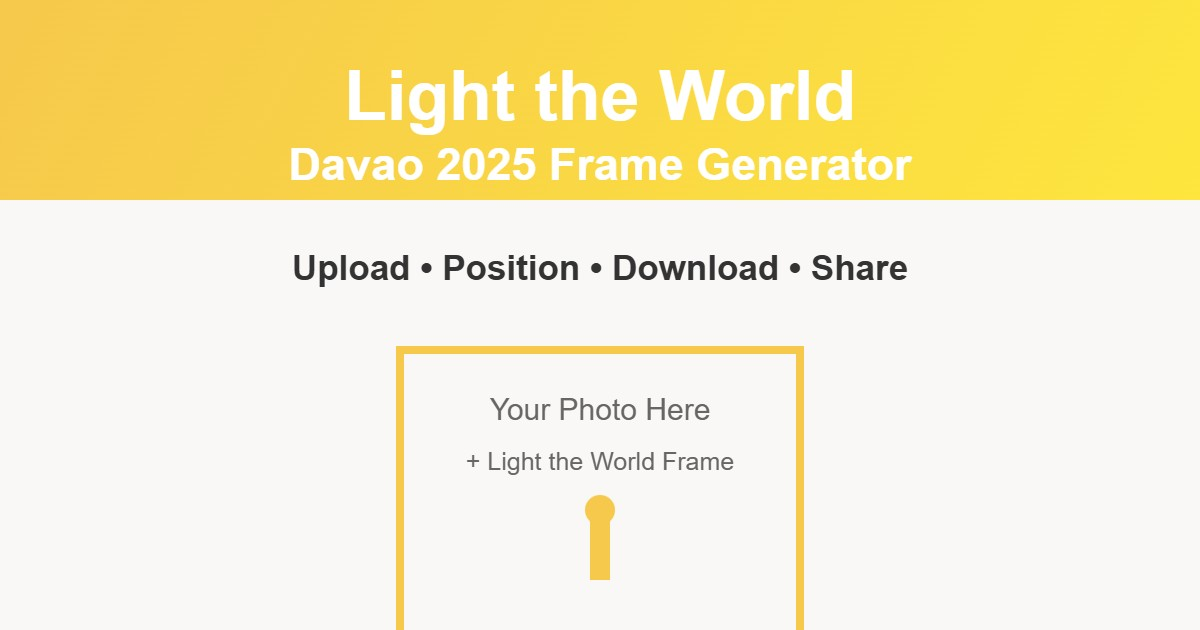
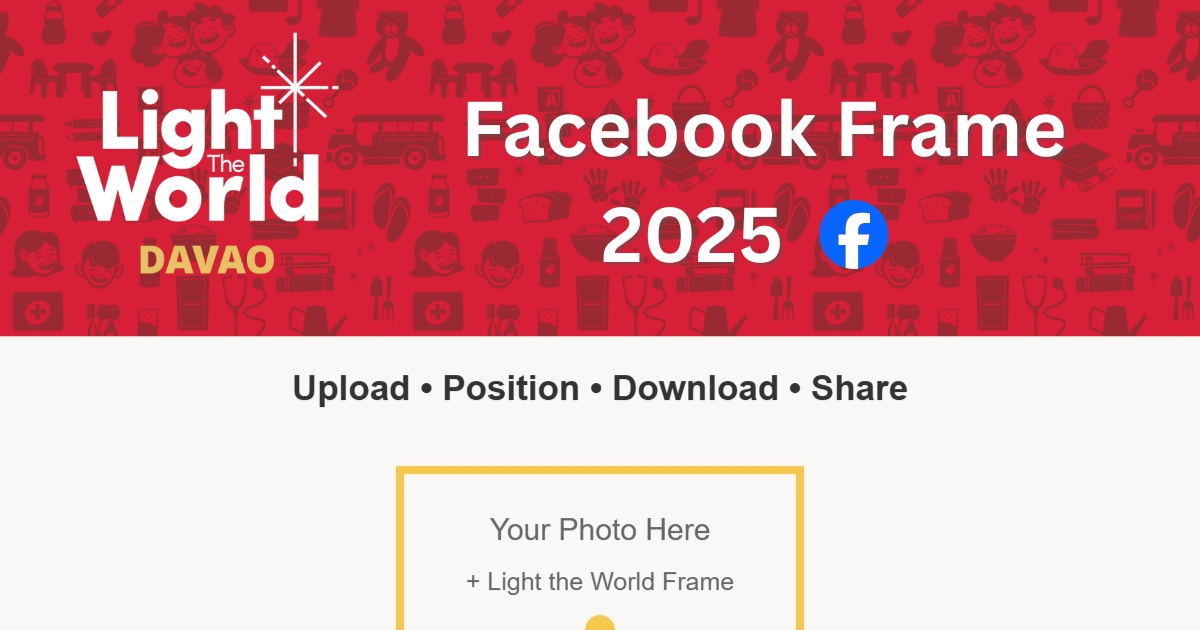
updates to preview image and landing page theme

diff --git a/index.html b/index.html
@@ -23,8 +23,8 @@
         }
         
         body {
-            font-family: system-ui, -apple-system, sans-serif;
-            background: linear-gradient(135deg, #1a237e 0%, #311b92 100%);
+            font-family: -apple-system, BlinkMacSystemFont, 'Segoe UI', Roboto, Oxygen, sans-serif;
+            background: linear-gradient(135deg, #8B0000 0%, #B22222 100%);
             color: white;
             min-height: 100vh;
             overflow: hidden;
@@ -39,7 +39,7 @@
             left: 0;
             right: 0;
             bottom: 0;
-            background: rgba(0, 0, 0, 0.95);
+            background: rgba(0, 0, 0, 0.85);
             z-index: 99999;
             display: flex;
             justify-content: center;
@@ -54,125 +54,244 @@
             max-width: 450px;
             width: 100%;
             color: #333;
-            box-shadow: 0 20px 60px rgba(0, 0, 0, 0.4);
+            box-shadow: 0 25px 70px rgba(139, 0, 0, 0.3);
             position: relative;
             text-align: center;
+            border: 3px solid #FFD700;
+            overflow: hidden;
+        }
+        
+        /* Decorative elements */
+        .modal-content::before {
+            content: "";
+            position: absolute;
+            top: 0;
+            left: 0;
+            right: 0;
+            height: 4px;
+            background: linear-gradient(90deg, #FFD700, #FF6347, #FFD700);
+        }
+        
+        .modal-content::after {
+            content: "🎄";
+            position: absolute;
+            top: -15px;
+            left: 50%;
+            transform: translateX(-50%);
+            background: white;
+            width: 40px;
+            height: 40px;
+            border-radius: 50%;
+            display: flex;
+            align-items: center;
+            justify-content: center;
+            font-size: 1.5rem;
+            border: 3px solid #FFD700;
+            box-shadow: 0 4px 12px rgba(0, 0, 0, 0.15);
         }
         
         h1 {
-            color: #f6c84c;
-            font-size: 1.6rem;
+            color: #8B0000;
+            font-size: 1.7rem;
             text-align: center;
-            margin-bottom: 15px;
+            margin-bottom: 12px;
+            font-weight: 700;
+            text-shadow: 1px 1px 2px rgba(0, 0, 0, 0.1);
         }
         
         .subtitle {
             text-align: center;
             color: #666;
-            margin-bottom: 25px;
+            margin-bottom: 28px;
             font-size: 1rem;
-            line-height: 1.4;
+            line-height: 1.5;
+            padding: 0 10px;
         }
         
         .step {
             text-align: left;
-            margin-bottom: 20px;
+            margin-bottom: 22px;
+            position: relative;
+            padding-left: 5px;
         }
         
         .step-number {
             display: inline-block;
-            background: #f6c84c;
-            color: #1a237e;
-            width: 28px;
-            height: 28px;
+            background: linear-gradient(135deg, #8B0000, #B22222);
+            color: white;
+            width: 30px;
+            height: 30px;
             border-radius: 50%;
             text-align: center;
-            line-height: 28px;
+            line-height: 30px;
             font-weight: bold;
-            margin-right: 10px;
-            font-size: 0.9rem;
+            margin-right: 12px;
+            font-size: 0.95rem;
+            box-shadow: 0 3px 8px rgba(139, 0, 0, 0.2);
+            border: 2px solid #FFD700;
         }
         
         .step-title {
             display: inline;
-            font-size: 1.1rem;
+            font-size: 1.15rem;
             color: #333;
             font-weight: 600;
+            position: relative;
+            top: 2px;
         }
         
         .link-container {
-            background: #f8f9fa;
-            border-radius: 12px;
-            padding: 15px;
-            margin: 15px 0 25px 0;
-            border: 2px dashed #e0e0e0;
+            background: linear-gradient(135deg, #FFF5F5, #FFE8E8);
+            border-radius: 14px;
+            padding: 18px;
+            margin: 18px 0 28px 0;
+            border: 2px dashed #FFB6C1;
+            position: relative;
+        }
+        
+        .link-container::before {
+            content: "🔗";
+            position: absolute;
+            top: -12px;
+            left: 20px;
+            background: white;
+            padding: 0 8px;
+            font-size: 0.9rem;
+            color: #8B0000;
         }
         
         .link-box {
-            font-family: monospace;
+            font-family: 'Courier New', monospace;
             font-size: 0.85rem;
             word-break: break-all;
-            color: #333;
-            padding: 12px;
+            color: #8B0000;
+            padding: 14px;
             background: white;
-            border-radius: 8px;
-            border: 1px solid #ddd;
-            margin-bottom: 15px;
+            border-radius: 10px;
+            border: 1px solid #FFB6C1;
+            margin-bottom: 18px;
             text-align: center;
+            box-shadow: 0 2px 6px rgba(0, 0, 0, 0.05);
+            font-weight: 500;
         }
         
         .copy-btn {
             width: 100%;
-            padding: 14px;
-            background: #4CAF50;
+            padding: 16px;
+            background: linear-gradient(135deg, #8B0000, #B22222);
             color: white;
             border: none;
-            border-radius: 10px;
-            font-size: 1rem;
+            border-radius: 12px;
+            font-size: 1.05rem;
             font-weight: 600;
             cursor: pointer;
             transition: all 0.3s;
+            box-shadow: 0 4px 12px rgba(139, 0, 0, 0.2);
+            position: relative;
+            overflow: hidden;
         }
         
         .copy-btn:hover {
-            background: #5CBF60;
+            background: linear-gradient(135deg, #B22222, #8B0000);
+            transform: translateY(-2px);
+            box-shadow: 0 6px 16px rgba(139, 0, 0, 0.3);
+        }
+        
+        .copy-btn:active {
+            transform: translateY(0);
+        }
+        
+        .copy-btn::after {
+            content: "";
+            position: absolute;
+            top: 50%;
+            left: 50%;
+            width: 5px;
+            height: 5px;
+            background: rgba(255, 255, 255, 0.5);
+            opacity: 0;
+            border-radius: 100%;
+            transform: scale(1, 1) translate(-50%);
+            transform-origin: 50% 50%;
+        }
+        
+        .copy-btn:focus:not(:active)::after {
+            animation: ripple 1s ease-out;
+        }
+        
+        @keyframes ripple {
+            0% {
+                transform: scale(0, 0);
+                opacity: 0.5;
+            }
+            100% {
+                transform: scale(40, 40);
+                opacity: 0;
+            }
         }
         
         .copy-btn.copied {
-            background: #2E7D32;
+            background: linear-gradient(135deg, #2E7D32, #4CAF50);
+            box-shadow: 0 4px 12px rgba(46, 125, 50, 0.2);
+        }
+        
+        .copy-btn.copied:hover {
+            background: linear-gradient(135deg, #4CAF50, #2E7D32);
         }
         
         .step-description {
-            margin-top: 8px;
+            margin-top: 10px;
             color: #666;
-            font-size: 0.9rem;
-            line-height: 1.4;
-            padding-left: 38px;
+            font-size: 0.92rem;
+            line-height: 1.5;
+            padding-left: 42px;
+            padding-right: 10px;
         }
         
         @media (max-width: 480px) {
             .modal-content {
-                padding: 20px;
+                padding: 24px 20px;
                 max-width: 90%;
             }
             
             h1 {
-                font-size: 1.4rem;
+                font-size: 1.5rem;
             }
             
             .step-title {
-                font-size: 1rem;
+                font-size: 1.05rem;
             }
             
             .link-box {
                 font-size: 0.8rem;
-                padding: 10px;
+                padding: 12px;
             }
             
             .copy-btn {
-                padding: 12px;
-                font-size: 0.95rem;
+                padding: 14px;
+                font-size: 1rem;
             }
+            
+            .step-number {
+                width: 28px;
+                height: 28px;
+                line-height: 28px;
+                font-size: 0.9rem;
+            }
+        }
+        
+        /* Add a subtle pattern to the background */
+        body::before {
+            content: "";
+            position: fixed;
+            top: 0;
+            left: 0;
+            right: 0;
+            bottom: 0;
+            background-image: 
+                radial-gradient(circle at 10% 20%, rgba(255, 255, 255, 0.05) 0%, transparent 20%),
+                radial-gradient(circle at 90% 80%, rgba(255, 255, 255, 0.05) 0%, transparent 20%);
+            pointer-events: none;
         }
     </style>
 </head>
